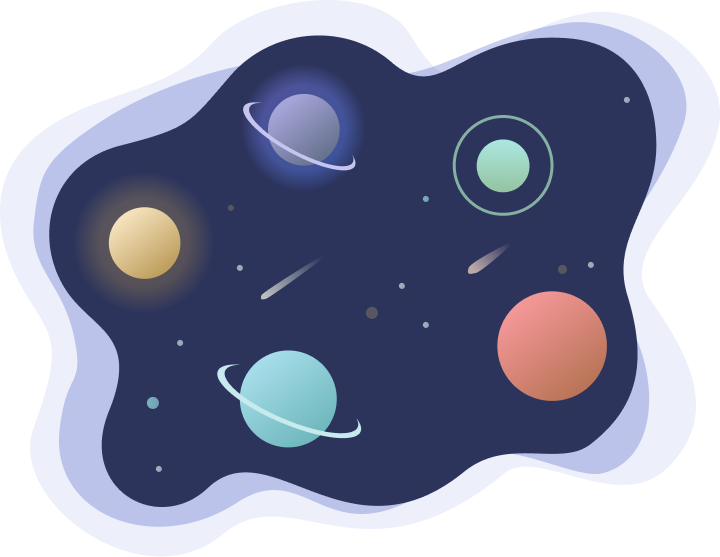
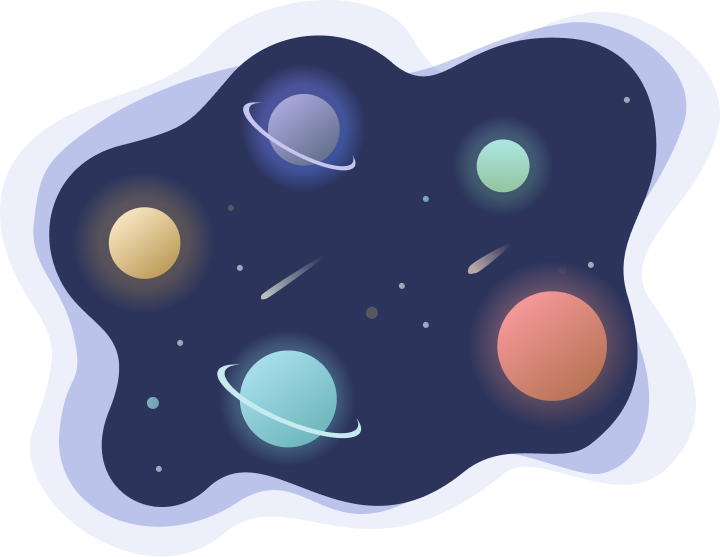
feat(task): revise galaxy component

diff --git a/src/components/OnboardingTasks/Galaxy/styles.css b/src/components/OnboardingTasks/Galaxy/styles.css
@@ -1,7 +1,8 @@
 .galaxy {
   position: relative;
-  width: 16rem;
-  height: 12.5rem;
+  width: 16.5rem;
+  height: 12.75rem;
+  min-height: 12.75rem;
   margin: 0 auto;
 }
 
@@ -10,48 +11,66 @@
   color: rgba(255, 255, 255, 0.45);
   cursor: pointer;
 
+  & :global(> svg) {
+    & :global(path:first-child) {
+      opacity: 0;
+    }
+  }
+
   &:hover {
     color: rgba(255, 255, 255, 0.65);
+
+    & :global(> svg) {
+      & :global(path:first-child) {
+        opacity: 0.8;
+      }
+    }
   }
 }
 
 .check-1 {
-  top: 47px;
-  right: 63px;
-  width: 26px;
-  height: 26px;
+  top: 37px;
+  right: 55px;
+  width: 48px;
+  height: 48px;
 }
 
 .check-2 {
-  top: 107px;
-  right: 39px;
-  width: 38px;
-  height: 37px;
+  top: 100px;
+  right: 34.5px;
+  width: 54px;
+  height: 54px;
 }
 
 .check-3 {
-  bottom: 40px;
+  bottom: 37.5px;
   left: 85px;
-  width: 34px;
-  height: 34px;
+  width: 42px;
+  height: 42px;
 }
 
 .check-4 {
-  top: 76px;
-  left: 38px;
-  width: 25px;
-  height: 24px;
+  top: 70px;
+  left: 34px;
+  width: 38px;
+  height: 38px;
 }
 
 .check-5 {
-  top: 35px;
-  left: 95px;
-  width: 25px;
-  height: 25px;
+  top: 31px;
+  left: 94.5px;
+  width: 33px;
+  height: 33px;
 }
 
 .checked {
   color: rgba(255, 255, 255, 1);
+
+  & :global(> svg) {
+    &:global(path:first-child) {
+      opacity: 1;
+    }
+  }
 
   &:hover {
     color: rgba(255, 255, 255, 1);
